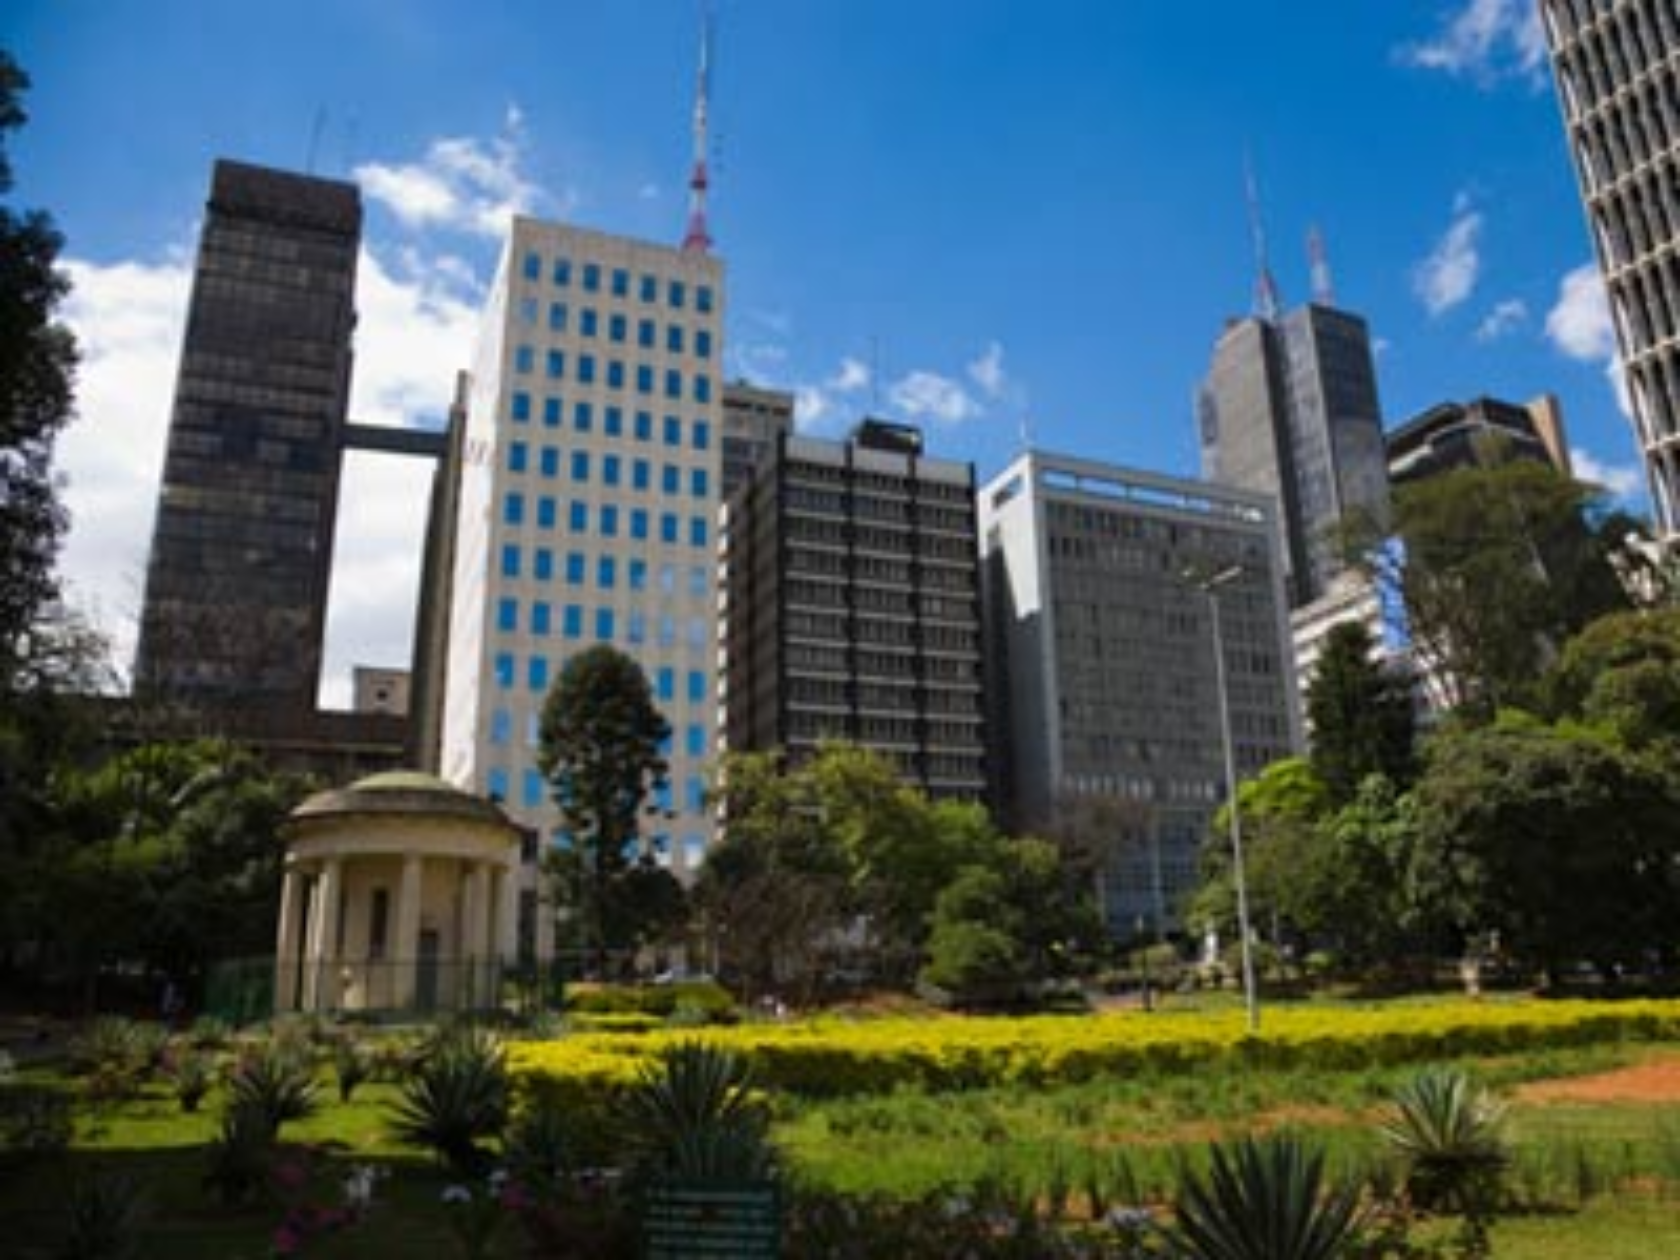
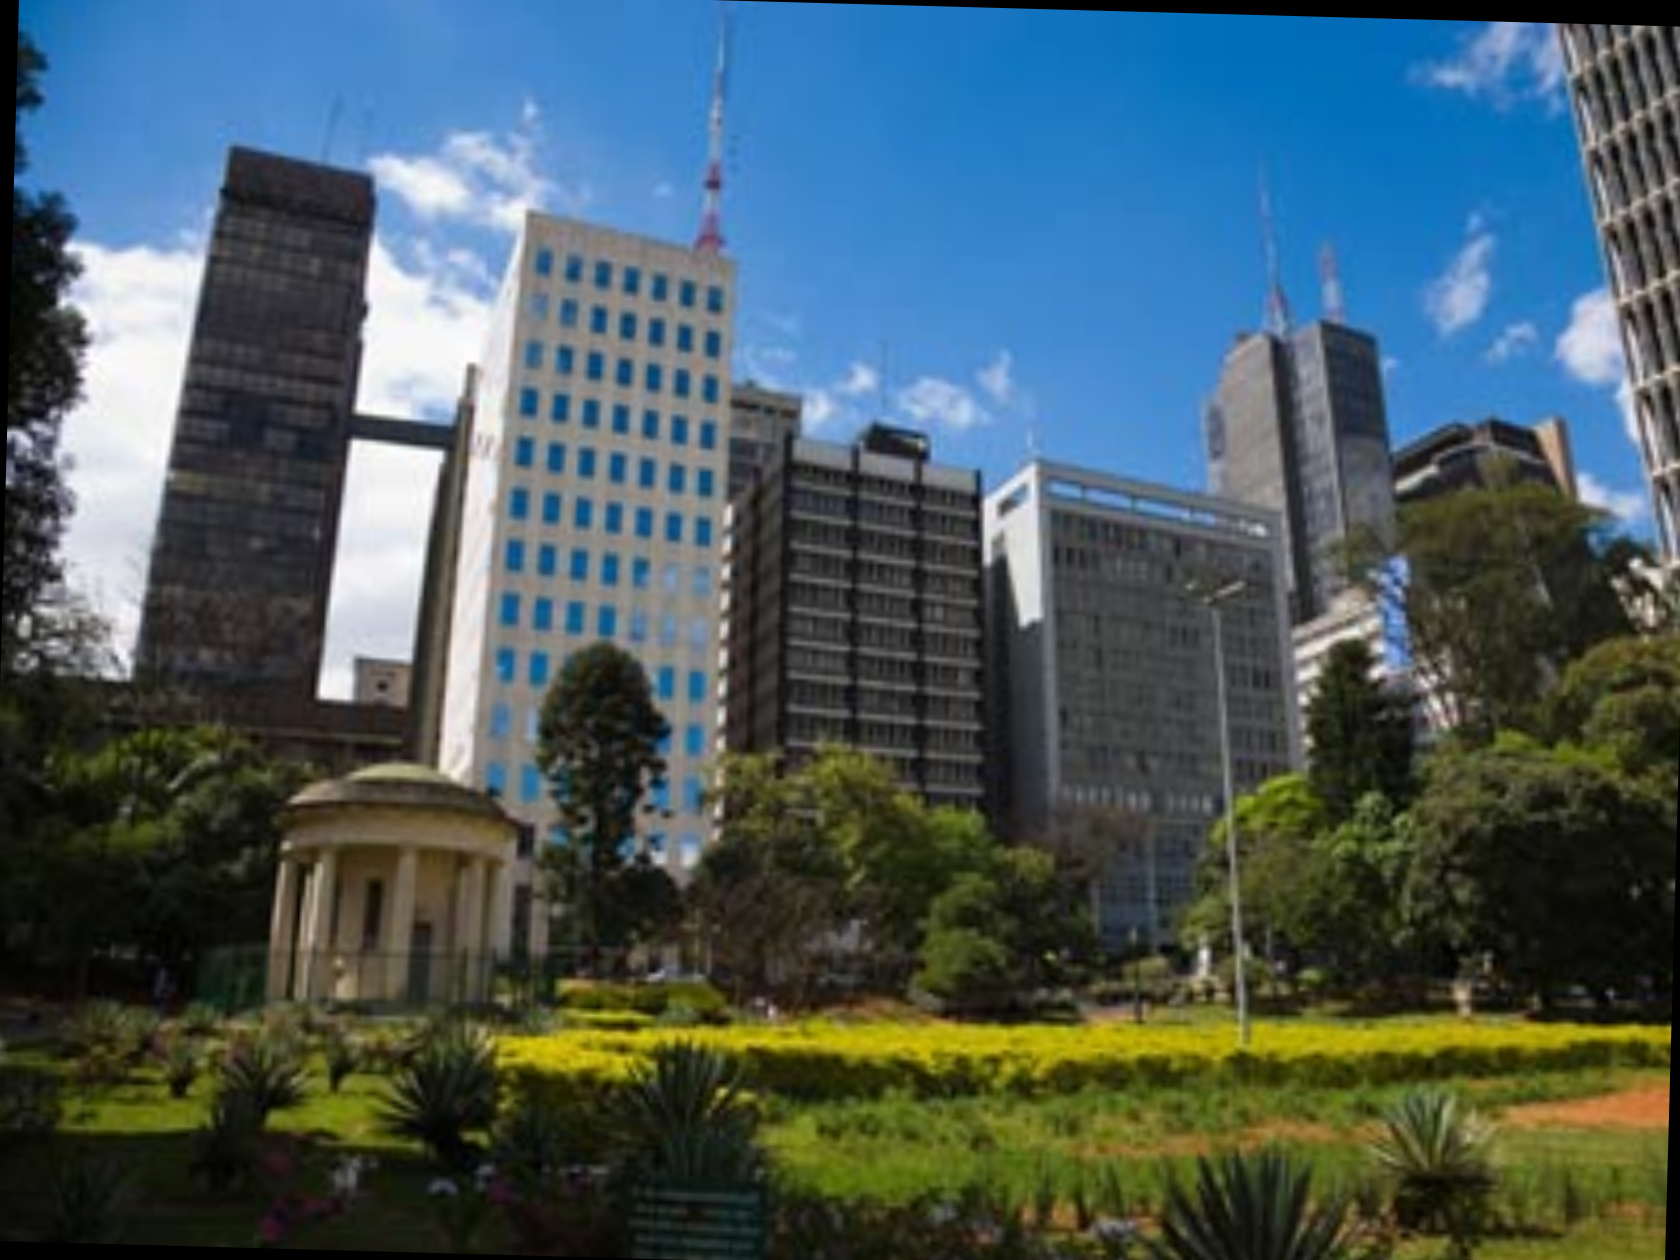
Arreglo en tarea3

diff --git a/Tarea3/tarea3.py b/Tarea3/tarea3.py
@@ -7,32 +7,70 @@ def mapeo_inverso_existe(a, b, c, d):
   result = b * c - a * d
   return result != 0
 
-def mapeo(imagen, a, b, c, d):
+# En este mapeo se usa el mapeo bilineal en su forma
+# lineal, o sea w = (az + b) / (cz + d) pasa a ser
+# w = a/c + (bc-ad)/(c(cz + d)) y eso se simplifica
+# a w = mu*z_2 +lambda
+# Entonces las variables que tiene son:
+# z_2 = 1 / z_1,
+# z_1 = alfa * z +beta, 
+# lambda = a/c,
+# mu = bc - ad,
+# alfa = c^2,
+# beta = c*d
+# Esto como se muestra en la página 36 del libro
+# Señales y Sistemas Fundamentos Matemáticos de
+# Pablo Alvarado Moya
+def mapeo_directo(imagen, a, b, c, d):
+    if not mapeo_inverso_existe(a,b,c,d):
+        return imagen
+    
+    (alto, ancho) = imagen.shape[:2]
+
+    if c == 0:
+        lambda_ = complex(0)
+    else:
+        lambda_ = complex(a/c)
+    mu = complex(b*c-a*d)
+    cambioTamanno = np.linalg.norm([mu.real, mu.imag])
+    angulo = np.angle(mu)
+    nuevoTamanno = (round(ancho*cambioTamanno), round(alto*cambioTamanno))
+    res = cv2.resize(imagen,dsize=nuevoTamanno)
+    (alto, ancho) = res.shape[:2]
+    M = cv2.getRotationMatrix2D((lambda_.real, lambda_.imag), angulo, 1.0)
+    imagenNueva = cv2.warpAffine(src=res, M=M, dsize=(ancho, alto))
+    
+    return imagenNueva
+
+def mapeo_inverso(imagen, a, b, c, d):
     if not mapeo_inverso_existe(a,b,c,d):
         return imagen
     
     (alto, ancho) = imagen.shape[:2]
 
     alfa = complex(c)**2
-    beta = complex(c*d)
+    if c == 0:
+        lambda_ = complex(0)
+    else:
+        lambda_ = complex(-d/c)
     mu = complex(b*c-a*d)
     cambioTamanno = np.linalg.norm([mu.real, mu.imag])
-    angulo = np.angle(alfa)
-    nuevoTamanno = (round(ancho*cambioTamanno), round(alto*cambioTamanno))
+    angulo = np.angle(mu)
+    nuevoTamanno = (round(ancho/cambioTamanno), round(alto/cambioTamanno))
     res = cv2.resize(imagen,dsize=nuevoTamanno)
     (alto, ancho) = res.shape[:2]
-    M = cv2.getRotationMatrix2D((beta.real, beta.imag), angulo, 1.0)
+    M = cv2.getRotationMatrix2D((lambda_.real, lambda_.imag), angulo, 1.0)
     imagenNueva = cv2.warpAffine(src=res, M=M, dsize=(ancho, alto))
     
     return imagenNueva
 
 if len(sys.argv) < 5:
     imagen = cv2.imread("Original.png")
-    imagen2 = mapeo(imagen, 2.1+2.1j, 0, 0.003, 1+1j)
+    imagen2 = mapeo_directo(imagen, 2.1+2.1j, 0, 0.003, 1+1j)
     #imagen2 = mapeo(imagen, 4, 0, 0, 1)
 else:
     imagen = cv2.imread(sys.argv[0])
-    imagen2 = mapeo(imagen, complex(sys.argv[1]), complex(sys.argv[2]), complex(sys.argv[3]), complex(sys.argv[4]))
+    imagen2 = mapeo_directo(imagen, complex(sys.argv[1]), complex(sys.argv[2]), complex(sys.argv[3]), complex(sys.argv[4]))
     
 
 cv2.imwrite("imagen2.png", imagen2)
